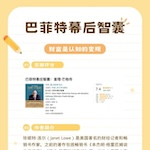
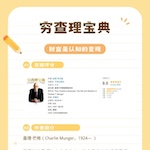
Last update time: 2023-12-26 21:53:32

diff --git a/docs/blog/2023/03/20230324.md b/docs/blog/2023/03/20230324.md
@@ -1,0 +1,66 @@
+---
+title: 老罗读书第5期-穷查理宝典
+description: 查理·芒格（Charlie Munger，1924— ）巴菲特的导师与人生合伙人，当今最伟大的投资思想家，全球第五大上市公司伯克希尔·哈撒韦的副主席，该公司51年间19.2%年复合增长率的奇迹缔造者。
+banner: ../../../../attachments/2023/03/20230324/banner.jpeg
+comments: true
+hide:
+    - navigation
+date: 2023-03-24
+tags:
+    - 老罗读书
+    - 穷查理宝典
+    - 2023年3月
+    - 2023年
+---
+
+__微信公众号文章地址：[老罗读书第5期-穷查理宝典](https://mp.weixin.qq.com/s/t3ISpsygotHusuM2gIpr5g)__
+
+### 1. 豆瓣评分&作者简介
+
+#### 1.1 豆瓣评分
+
++ 8.6 分
+
+#### 1.2 作者简介
+
+查理·芒格（Charlie Munger，1924— ）巴菲特的导师与人生合伙人，当今最伟大的投资思想家，全球第五大上市公司伯克希尔·哈撒韦的副主席，该公司51年间19.2%年复合增长率的奇迹缔造者。
+
+![穷查理宝典-豆瓣评分&作者简介](../../../attachments/2023/03/20230324/1.png)
+
+### 2. 内容摘要
+
+找出你最擅长的事情，然后持之以恒、乐此不疲地去把它做好。
+
+查理是我遇到过的最渊博的思想家。从经商原则到经济规律，从学生宿舍的设计到游艇的设计，他都没有对手。查理拥有用简单的描述抓住要点的本领。
+
+凡事往简单处想，往认真处行。
+
+动物在合适的地方能够繁衍，同样地，人只要在社会上找到了专属于自己的位置，也能够做得很成功。
+
+长久以来，我坚信存在某个系统——几乎所有聪明人都能掌握的系统，它比绝大多数人用的系统管用。你需要的是在你的头脑里形成一种思维模型的复式框架。有了那个系统后，你就能逐渐提高对事物的认知。
+
+![穷查理宝典-内容摘要](../../../attachments/2023/03/20230324/2.png)
+
+简单是长期努力工作的结果，而不是起点。
+
+沃伦和我非常善于破坏我们自己最爱的观念。哪年你没有破坏一个你最爱的观念，那么这一年你就白过了。
+
+查理喜欢把观念和方法比喻为工具。如果有了更好的工具，那还有什么比用它来取代旧工具更好的呢？
+
+在手里拿着铁锤的人看来，世界就像一颗钉子。这是处理问题的一种笨办法。你必须知道重要学科的重要理论，并经常使用它，要全部都用上，而不是只用几种。
+
+查理说：“直到今天，我没有上过任何化学、经济学、心理学或者商学的课程。”然而这些学科，特别是心理学却构成了他的系统赖以立足的基础。
+
+![穷查理宝典-内容摘要](../../../attachments/2023/03/20230324/3.png)
+
+### 3. 老罗书评
+
+芒格作为巴菲特的得力助手，被誉为是价值投资的权威人士，他的思想和方法值得深入探究。《穷查理宝典》的特点之一是直接面对问题，毫不避讳地讲述成功和失败的故事，以及这些经验教训对于投资和生活的启示。另一个特点是注重实践，他的理论基础并不新奇或深奥，但是他一直强调的是要将思考转化为行动，将知识转化为收益。
+
+除了投资领域，芒格的思考还涉及到哲学、心理学、逻辑学等多个领域，他的深邃思考和独到见解也可以启迪人们思考和生活。总之，这本书是一本非常值得一读的投资和人生哲学著作，不仅对于投资者有帮助，也对于广大读者有启示作用。
+
+这本书老罗 ⭐⭐⭐⭐⭐ 五星推荐，非常值得反复阅读。
+
+![穷查理宝典-老罗书评](../../../attachments/2023/03/20230324/4.png)
+
+__微信公众号文章地址：[老罗读书第5期-穷查理宝典](https://mp.weixin.qq.com/s/t3ISpsygotHusuM2gIpr5g)__
